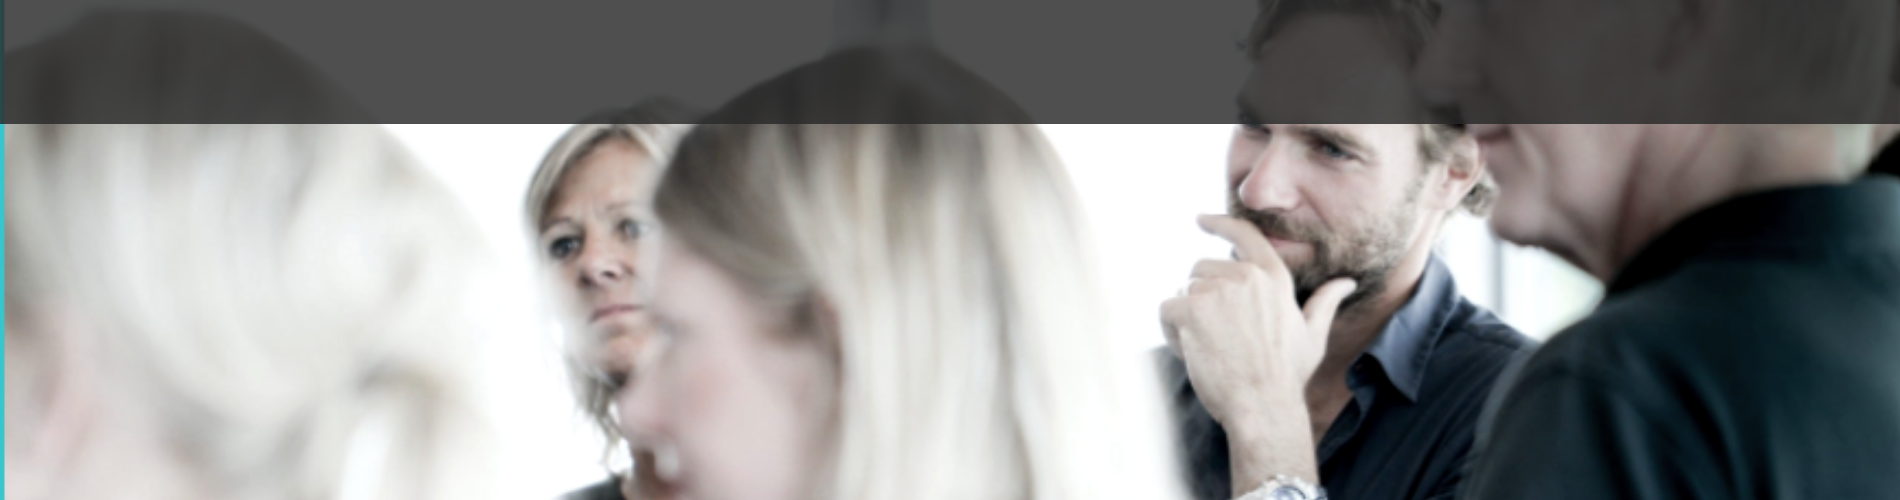
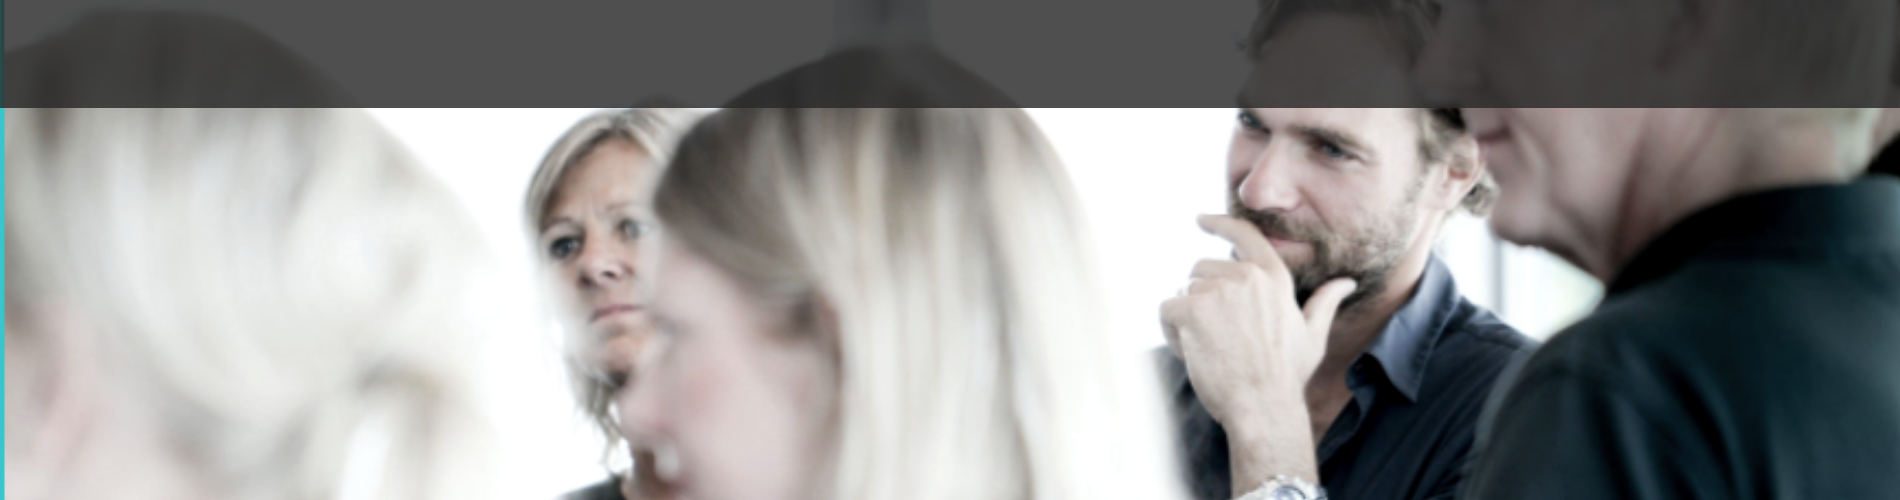
New infomode

Changed region(s): [[0.0, 0.21, 1.0, 0.27]]

diff --git a/_texts/front-page-6.md b/_texts/front-page-6.md
@@ -3,7 +3,7 @@ layout: default
 title: Kom med til informationsmøde
 page: frontpage
 order: 1
-image: /images/infomode/infomode-2.jpeg
+image: /images/infomode/infomode-2.png
 link: /academy/master-of-business-coaching/info-mode/
 placing: "background-position: center"
 published: true
@@ -11,6 +11,4 @@ text-message: 7. juni og 21. juni 2022
 ---
 Ønsker du at blive dygtig til at føre produktive og virkningsfulde
             dialoger – og stå stærkere i den personlige kontakt, så kom til informationsmøde om vores lederuddannelse Master of Business
-            Coaching. Her vil tidligere og nuværende studerende, <b>Chefkonsulent og Hotelejer Mette Fløystrup fra Region
-            Hovedstaden, Sektionsleder Ziga Friberg fra Røde Kors</b> og vores egen <b>konsulent Jesper Nøddesbo</b>, fortælle om
-            hvad uddannelsen har givet dem.
+            Coaching.
